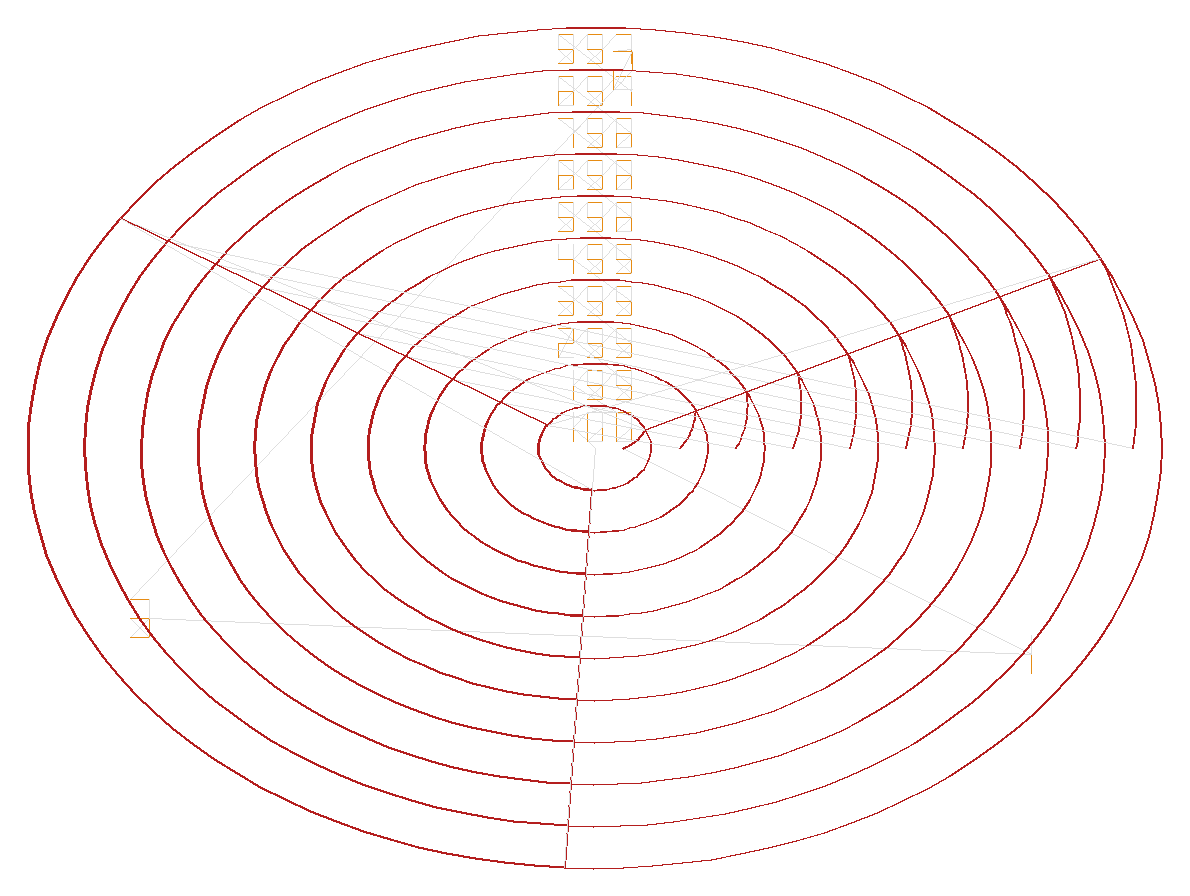
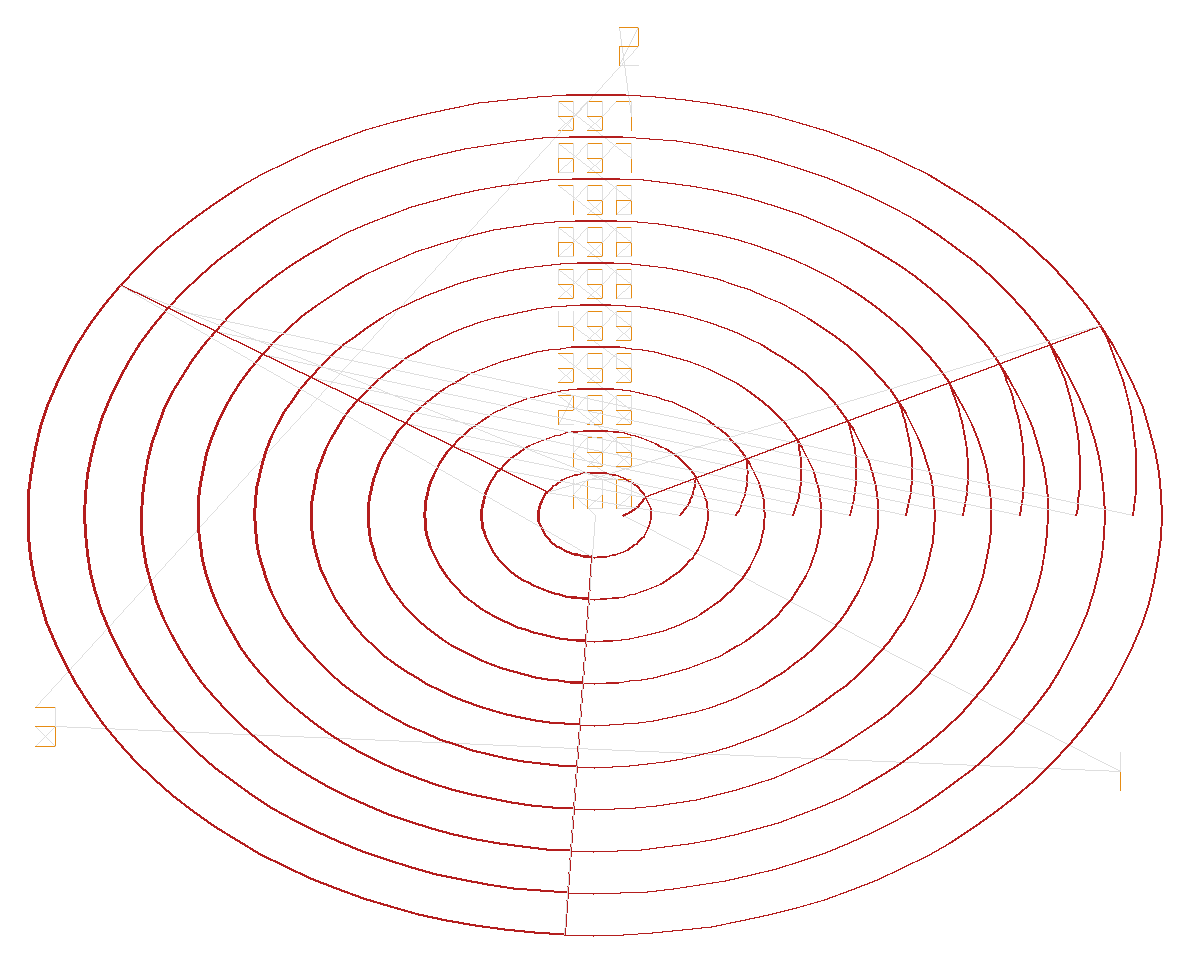
cnc_calibrate: sector pass-labels outside rings; sample figs; NOTES status
- Move the per-sector pass-count engraving just outside the outer ring (on the
  frame that stays put) so it no longer collides with the feed-label stack.
- Commit sample KEY + toolpath PNGs to figs/.
- NOTES: end-of-session status + known caveat (on-part feed digits cramped;
  KEY png is the authoritative decoder).

diff --git a/cnc_calibrate/spiral_cal.py b/cnc_calibrate/spiral_cal.py
@@ -177,11 +177,13 @@ def generate(
                 continue
             feed_segs += _feed_label_segs(str(feeds[i]), 0.0, b[i] - gap * 0.5, lab_h)
         _emit_engrave(lines, feed_segs, engrave_s, engrave_feed, "feed per ring")
-        # pass-count digit per sector, just inside the outer ring at sector mid
+        # pass-count digit per sector, just OUTSIDE the outer ring (on the frame
+        # that stays put) at the sector mid-angle, so it doesn't collide with the
+        # feed-label stack and stays readable in situ.
         pass_segs = []
         for k in range(N):
             th = join_ang + (k + 0.5) * sec
-            px, py = ellipse_pt(a[-1] * 0.9, b[-1] * 0.9, th)
+            px, py = ellipse_pt(a[-1] + 3.5, b[-1] + 3.5, th)
             pass_segs += _feed_label_segs(str(counts[k]), px, py, lab_h * 1.3)
         _emit_engrave(
             lines, pass_segs, engrave_s, engrave_feed, "pass count per sector"

diff --git a/cnc_calibrate/NOTES.md b/cnc_calibrate/NOTES.md
@@ -11,7 +11,21 @@ you (all reversible) + questions batched for your return.
    clean dir. Minimal set now (spiral_cal + get_ip/find-machine); the rest is
    inventoried below for you to pick later.
 
-## Decisions made (reversible)
+## STATUS (end of autonomous /makeitso session)
+DONE & committed:
+- cnc_calibrate/ scaffold (README, .gitignore, calibrate.py CLI, font_7seg, tests, figs).
+- spiral_cal.py upgraded: ellipse + pass-count zigzag + engraving + rebuilt KEY.
+  Recommended MDF plate generated (feeds 100–997 over 10 rings, passes 1/2/3,
+  aspect 1.35, ~81×65mm, ~2.8m cut). gcode verified: static M3 only, S1000 cut /
+  S150 engrave, ping-pong (no G0 between passes), sector counts [2,3,1].
+- get_ip/find-machine forklifted (findmachine.py + find_cnc.py + cnc_state.py);
+  cnc_vibes gutted (tombstones); 50 cnc_calibrate tests pass; cnc_vibes 556 tests
+  still collect clean.
+KNOWN caveat: on-part FEED digits are stacked at top-center and cross the ring
+cuts / are cramped near the middle — legible but not pretty; the KEY png is the
+authoritative decoder. Pass-count digits are engraved outside the rings (clean).
+
+
 - **Forklift = move (git rm from cnc_vibes) but MINIMAL**: only the flagship
   spiral_cal (rebuilt/upgraded here as canonical) and the get_ip stack
   (find_cnc.py, cnc_state.py) move now. Rest of cnc_vibes left intact to pick
